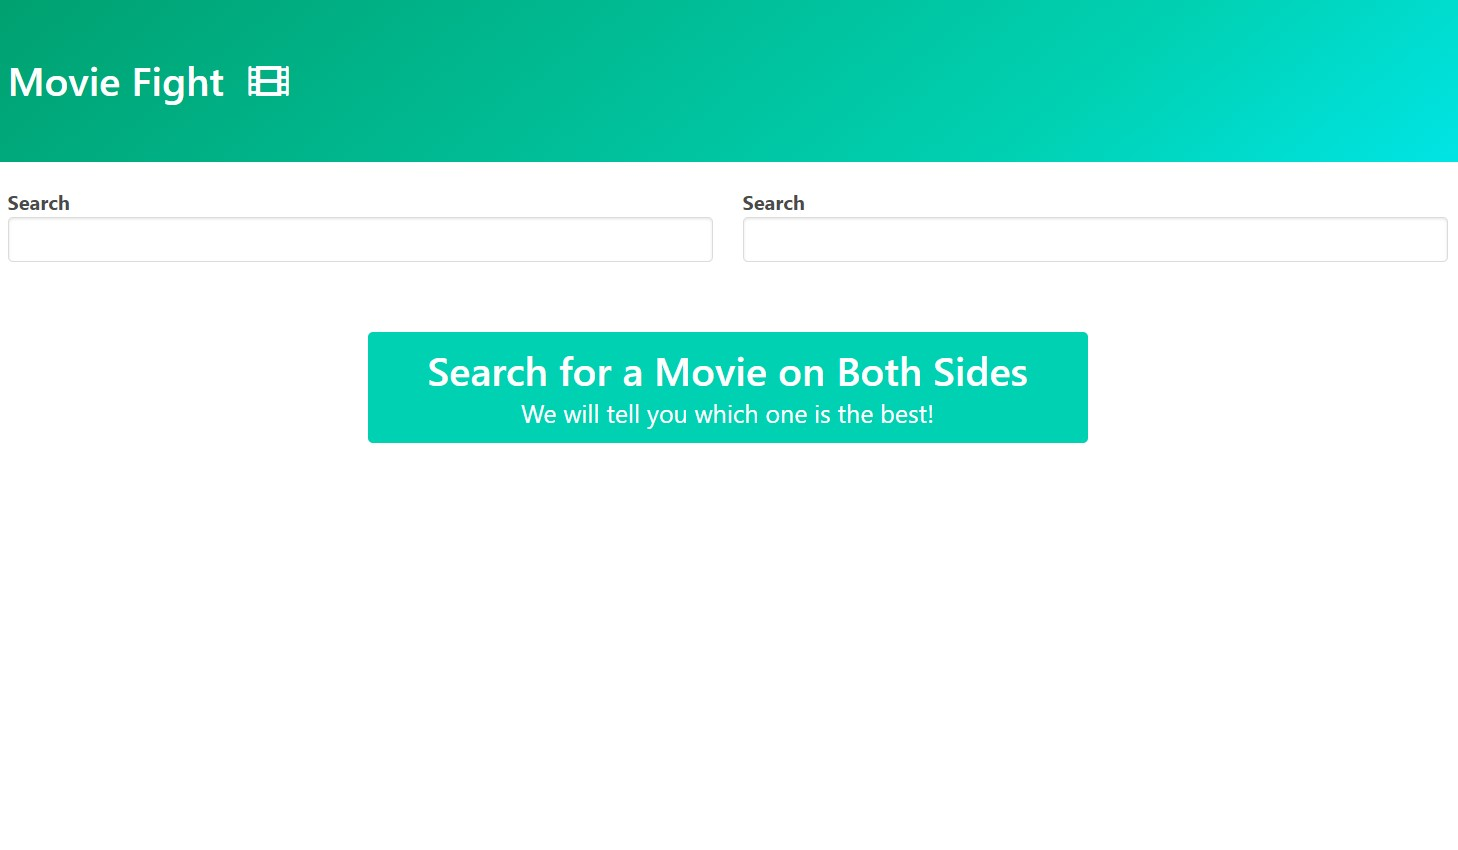
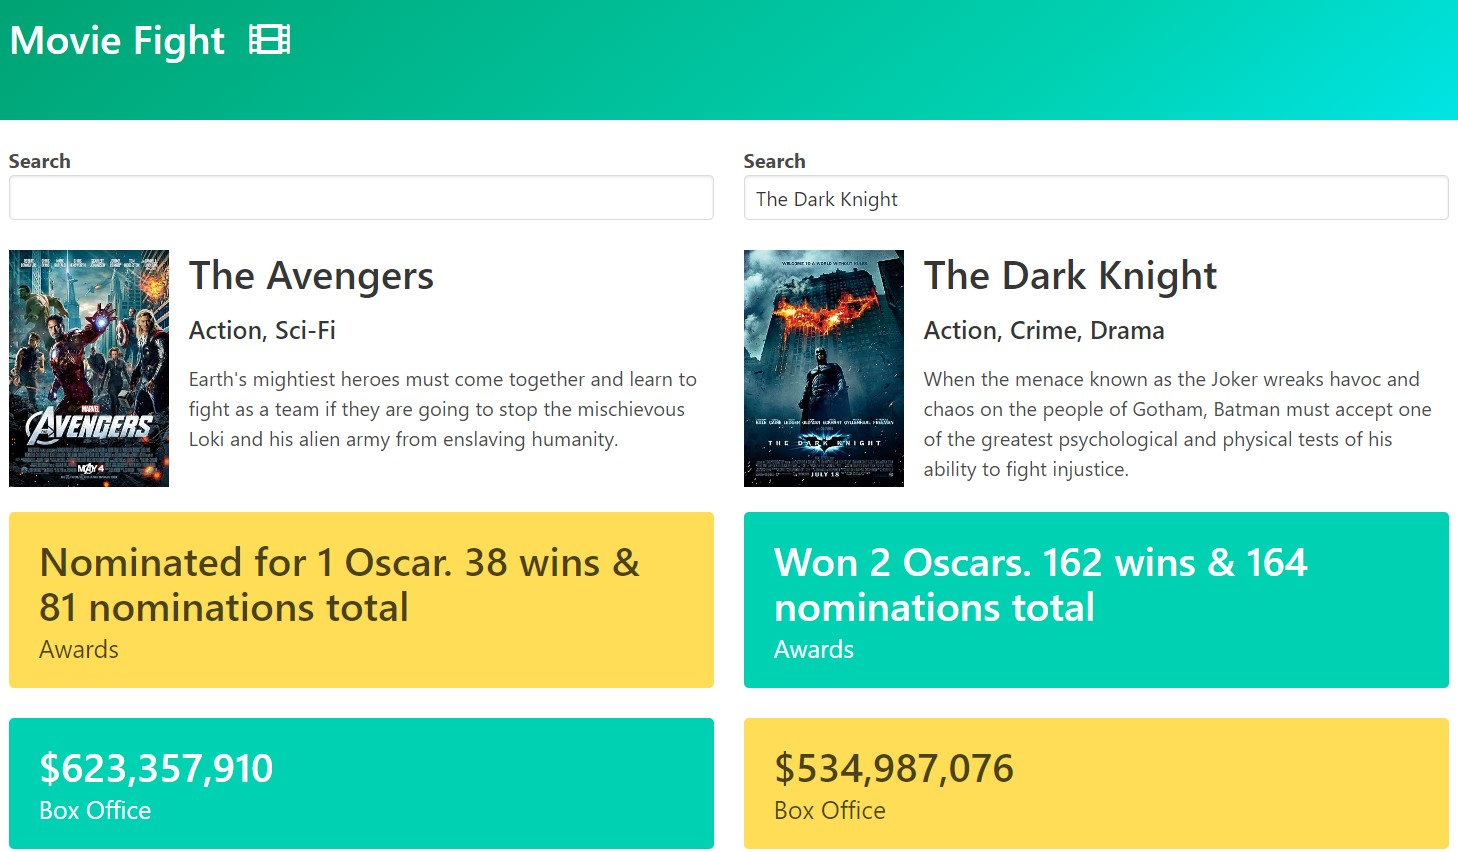
updating screenshot to show display and adding link to live site

diff --git a/index.html b/index.html
@@ -111,6 +111,11 @@
               target="_blank"
               >GitHub Repo</a
             >
+            <a
+              href="https://mattbuckwell.github.io/movie-fight-app/"
+              target="_blank"
+              >Live Site</a
+            >
           </div>
           <img class="article-img" src="/images/movie-fight.jpg" />
         </article>
